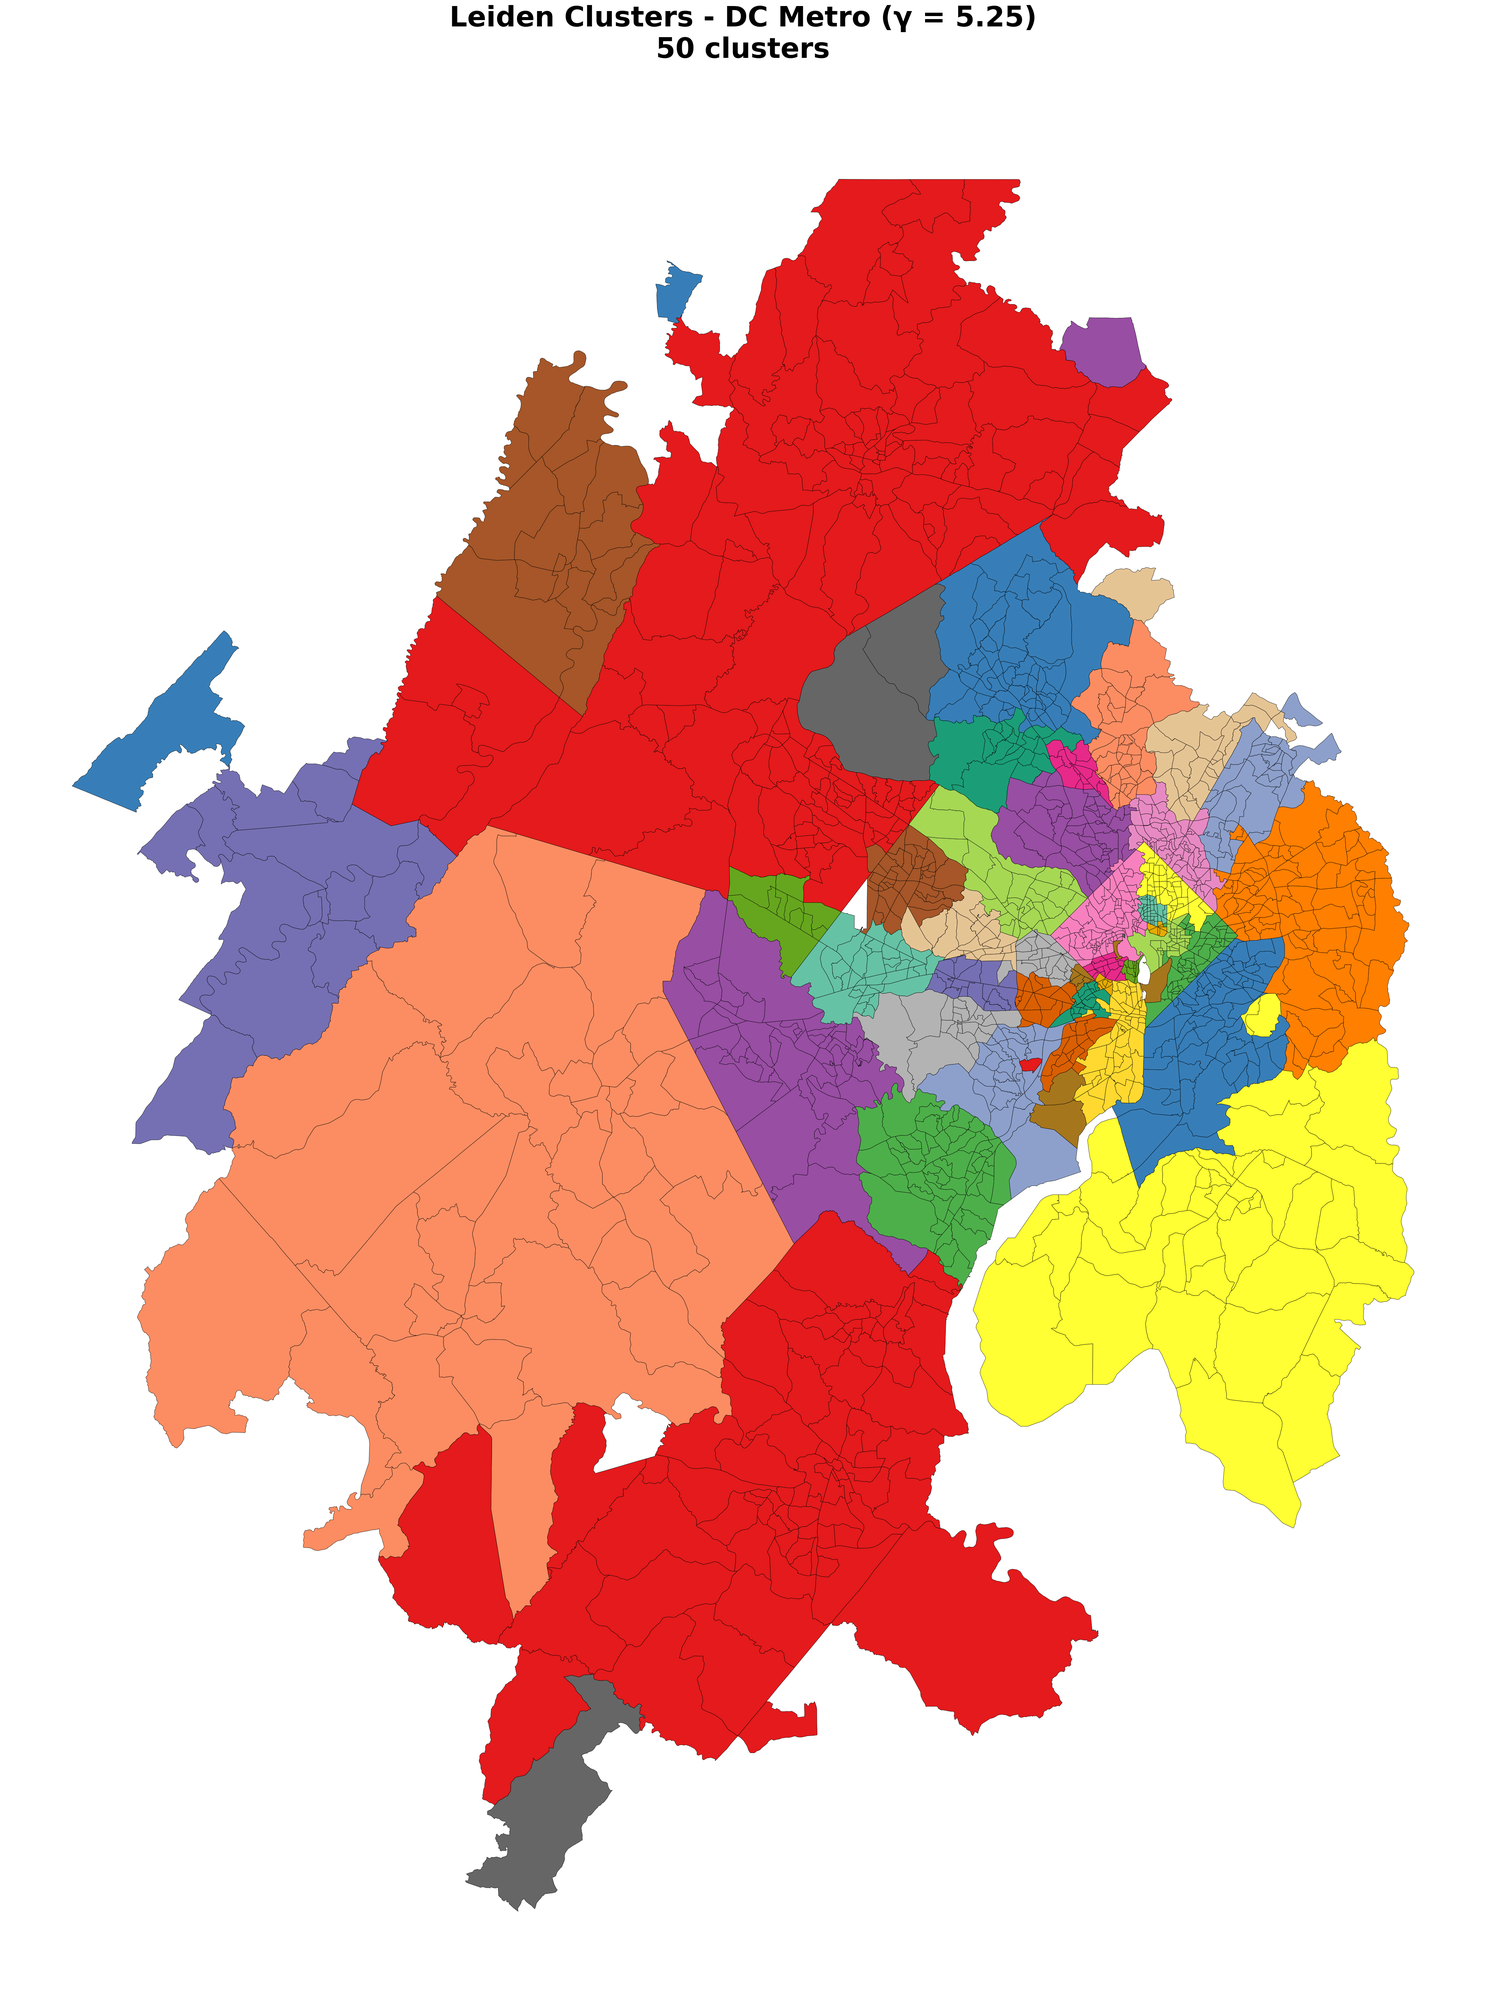
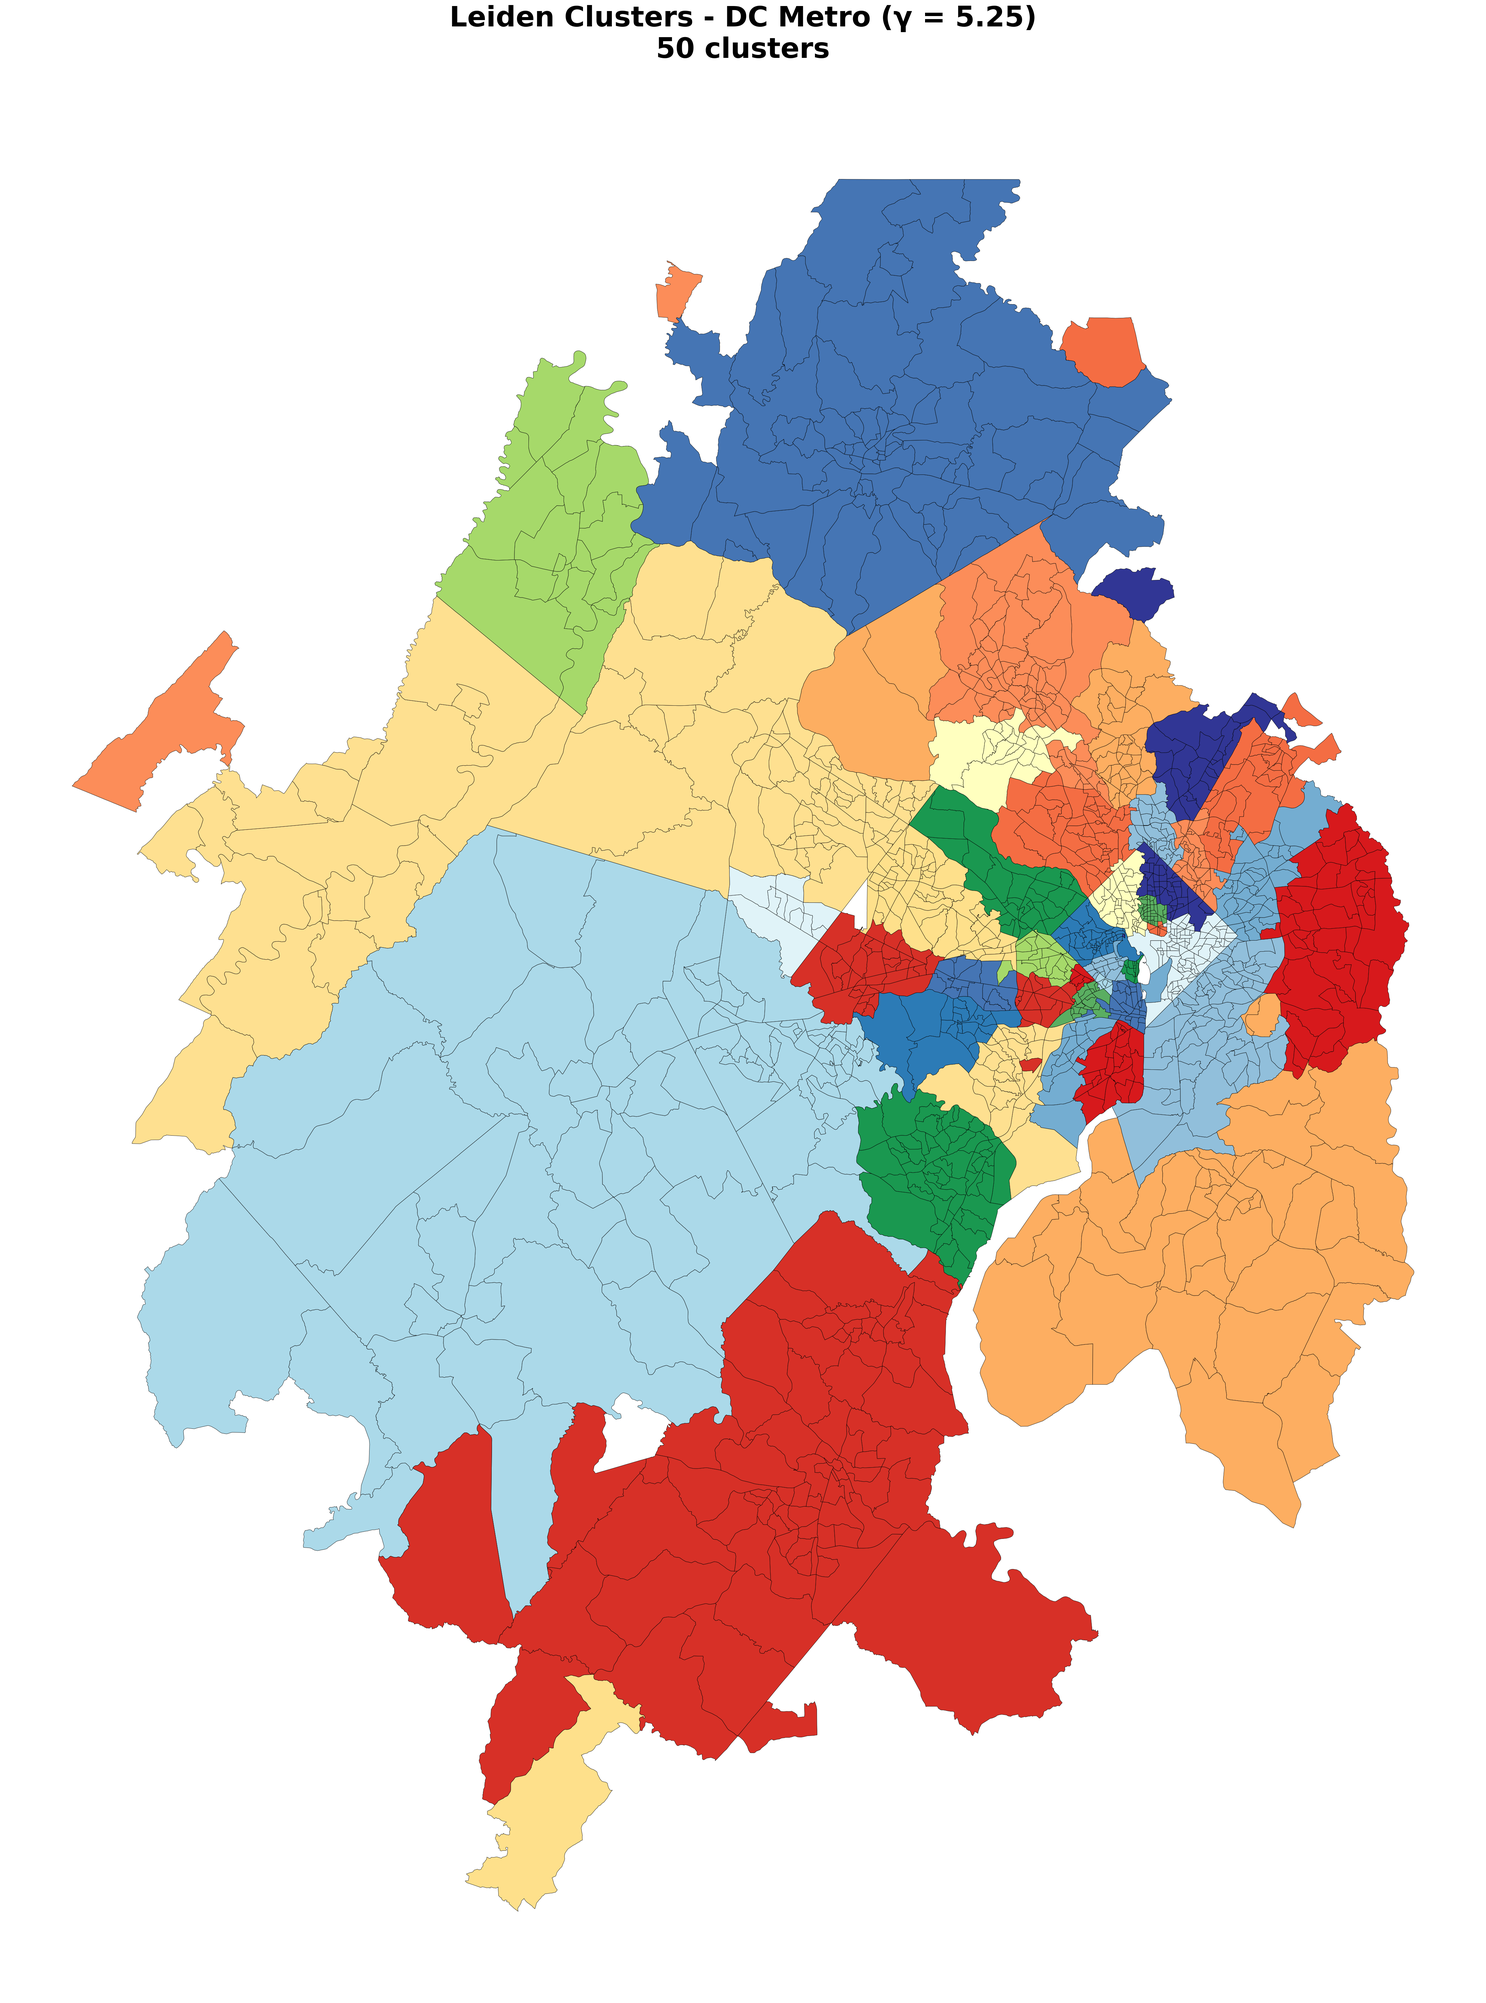
Use diverging color palette for better cluster differentiation
- Replaced sequential color palette with diverging colors
- Uses red-blue diverging scheme with better visual separation
- Colors alternate between warm (red/orange) and cool (blue/cyan) tones
- Updated both maps and legend to use new palette
- Clusters are now more visually distinct

🤖 Generated with [Claude Code](https://claude.com/claude-code)

diff --git a/index.html b/index.html
@@ -280,7 +280,7 @@
             display: none !important;
         }
     </style>
-    <marimo-code hidden="">import%20marimo%0A%0A__generated_with%20%3D%20%220.17.0%22%0Aapp%20%3D%20marimo.App()%0A%0A%0A%40app.cell%0Adef%20_()%3A%0A%20%20%20%20import%20marimo%20as%20mo%0A%20%20%20%20import%20pandas%20as%20pd%0A%20%20%20%20import%20plotly.express%20as%20px%0A%20%20%20%20return%20mo%2C%20pd%2C%20px%0A%0A%0A%40app.cell%0Adef%20_(mo)%3A%0A%20%20%20%20mo.md(%0A%20%20%20%20%20%20%20%20%22%22%22%0A%20%20%20%20%20%20%20%20%23%20Leiden%20Clustering%20-%20DC%20Metro%20Area%0A%20%20%20%20%20%20%20%20%22%22%22%0A%20%20%20%20)%0A%20%20%20%20return%0A%0A%0A%40app.cell%0Adef%20_(mo%2C%20pd)%3A%0A%20%20%20%20import%20json%0A%0A%20%20%20%20%23%20Load%20results%20from%20GitHub%0A%20%20%20%20results_url%20%3D%20'https%3A%2F%2Fraw.githubusercontent.com%2Fmassafn%2Fleiden-dc-interactive%2Fmain%2Fleiden_gamma_sweep_results.csv'%0A%20%20%20%20results_df%20%3D%20pd.read_csv(results_url)%0A%0A%20%20%20%20%23%20Load%20cluster%20legend%20info%20with%20actual%20cluster%20IDs%0A%20%20%20%20legend_url%20%3D%20'https%3A%2F%2Fraw.githubusercontent.com%2Fmassafn%2Fleiden-dc-interactive%2Fmain%2Fcluster_legend_info.json'%0A%20%20%20%20cluster_legend_df%20%3D%20pd.read_json(legend_url)%0A%0A%20%20%20%20%23%20Color%20palette%20(same%20as%20used%20in%20map%20generation)%0A%20%20%20%20color_palette%20%3D%20%5B'%23e41a1c'%2C%20'%23377eb8'%2C%20'%234daf4a'%2C%20'%23984ea3'%2C%20'%23ff7f00'%2C%0A%20%20%20%20%20%20%20%20%20%20%20%20%20%20'%23ffff33'%2C%20'%23a65628'%2C%20'%23f781bf'%2C%20'%2366c2a5'%2C%20'%23fc8d62'%2C%0A%20%20%20%20%20%20%20%20%20%20%20%20%20%20'%238da0cb'%2C%20'%23e78ac3'%2C%20'%23a6d854'%2C%20'%23ffd92f'%2C%20'%23e5c494'%2C%0A%20%20%20%20%20%20%20%20%20%20%20%20%20%20'%23b3b3b3'%2C%20'%231b9e77'%2C%20'%23d95f02'%2C%20'%237570b3'%2C%20'%23e7298a'%2C%0A%20%20%20%20%20%20%20%20%20%20%20%20%20%20'%2366a61e'%2C%20'%23e6ab02'%2C%20'%23a6761d'%2C%20'%23666666'%5D%0A%0A%20%20%20%20%23%20Create%20slider%20for%20gamma%0A%20%20%20%20gamma_slider%20%3D%20mo.ui.slider(%0A%20%20%20%20%20%20%20%20start%3D0.25%2C%0A%20%20%20%20%20%20%20%20stop%3D6.0%2C%0A%20%20%20%20%20%20%20%20step%3D0.25%2C%0A%20%20%20%20%20%20%20%20value%3D1.0%2C%0A%20%20%20%20%20%20%20%20label%3D%22%CE%B3%22%0A%20%20%20%20)%0A%0A%20%20%20%20gamma_slider%0A%20%20%20%20return%20cluster_legend_df%2C%20gamma_slider%2C%20results_df%0A%0A%0A%40app.cell%0Adef%20_(gamma_slider%2C%20mo)%3A%0A%20%20%20%20%23%20Display%20interactive%20map%20based%20on%20slider%20value%0A%20%20%20%20selected_gamma_map%20%3D%20gamma_slider.value%0A%0A%20%20%20%20%23%20Construct%20URL%20for%20the%20PNG%20map%20corresponding%20to%20selected%20gamma%0A%20%20%20%20map_url%20%3D%20f'https%3A%2F%2Fraw.githubusercontent.com%2Fmassafn%2Fleiden-dc-interactive%2Fmain%2Fleiden_map_gamma_%7Bselected_gamma_map%3A.2f%7D.png'%0A%0A%20%20%20%20mo.md(f%22%22%22%0A%20%20%20%20**Current%20selection%3A%20%CE%B3%20%3D%20%7Bselected_gamma_map%3A.2f%7D**%0A%20%20%20%20%22%22%22)%0A%20%20%20%20return%20map_url%2C%20selected_gamma_map%0A%0A%0A%40app.cell%0Adef%20_(map_url%2C%20mo)%3A%0A%20%20%20%20%23%20Display%20the%20map%20image%0A%20%20%20%20mo.md(f'%3Cimg%20src%3D%22%7Bmap_url%7D%22%20style%3D%22max-width%3A%20100%25%3B%20height%3A%20auto%3B%22%20%2F%3E')%0A%20%20%20%20return%0A%0A%0A%40app.cell%0Adef%20_(cluster_legend_df%2C%20mo%2C%20selected_gamma_map)%3A%0A%20%20%20%20%23%20Display%20legend%20with%20actual%20cluster%20IDs%20from%20the%20data%0A%20%20%20%20gamma_key%20%3D%20f'%7Bselected_gamma_map%3A.2f%7D'%0A%0A%20%20%20%20%23%20Get%20cluster%20info%20for%20this%20gamma%0A%20%20%20%20if%20gamma_key%20in%20cluster_legend_df.columns%3A%0A%20%20%20%20%20%20%20%20clusters%20%3D%20cluster_legend_df%5Bgamma_key%5D%0A%0A%20%20%20%20%20%20%20%20%23%20Build%20HTML%20legend%20with%20color%20swatches%0A%20%20%20%20%20%20%20%20legend_html%20%3D%20'%3Cdiv%20style%3D%22margin%3A%2020px%200%3B%22%3E%3Ch3%3ECluster%20Colors%3C%2Fh3%3E'%0A%20%20%20%20%20%20%20%20legend_html%20%2B%3D%20'%3Cdiv%20style%3D%22display%3A%20grid%3B%20grid-template-columns%3A%20repeat(auto-fill%2C%20minmax(100px%2C%201fr))%3B%20gap%3A%2010px%3B%22%3E'%0A%0A%20%20%20%20%20%20%20%20for%20cluster%20in%20clusters%3A%0A%20%20%20%20%20%20%20%20%20%20%20%20cluster_id%20%3D%20cluster%5B'cluster_id'%5D%0A%20%20%20%20%20%20%20%20%20%20%20%20color%20%3D%20cluster%5B'color'%5D%0A%20%20%20%20%20%20%20%20%20%20%20%20legend_html%20%2B%3D%20f'%3Cdiv%20style%3D%22display%3A%20flex%3B%20align-items%3A%20center%3B%20gap%3A%205px%3B%22%3E'%0A%20%20%20%20%20%20%20%20%20%20%20%20legend_html%20%2B%3D%20f'%3Cspan%20style%3D%22display%3A%20inline-block%3B%20width%3A%2030px%3B%20height%3A%2020px%3B%20background-color%3A%20%7Bcolor%7D%3B%20border%3A%201px%20solid%20black%3B%22%3E%3C%2Fspan%3E'%0A%20%20%20%20%20%20%20%20%20%20%20%20legend_html%20%2B%3D%20f'%3Cspan%20style%3D%22font-size%3A%2012px%3B%22%3EC%7Bcluster_id%7D%3C%2Fspan%3E'%0A%20%20%20%20%20%20%20%20%20%20%20%20legend_html%20%2B%3D%20'%3C%2Fdiv%3E'%0A%0A%20%20%20%20%20%20%20%20legend_html%20%2B%3D%20'%3C%2Fdiv%3E%3C%2Fdiv%3E'%0A%20%20%20%20else%3A%0A%20%20%20%20%20%20%20%20legend_html%20%3D%20'%3Cdiv%20style%3D%22margin%3A%2020px%200%3B%22%3E%3Cp%3E%3Cem%3ELoading%20legend...%3C%2Fem%3E%3C%2Fp%3E%3C%2Fdiv%3E'%0A%0A%20%20%20%20mo.md(legend_html)%0A%20%20%20%20return%0A%0A%0A%40app.cell%0Adef%20_(gamma_slider%2C%20results_df)%3A%0A%20%20%20%20%23%20Get%20selected%20gamma%20value%0A%20%20%20%20selected_gamma%20%3D%20gamma_slider.value%0A%0A%20%20%20%20%23%20Get%20results%20for%20selected%20gamma%0A%20%20%20%20result_row%20%3D%20results_df%5Bresults_df%5B'gamma'%5D%20%3D%3D%20selected_gamma%5D.iloc%5B0%5D%0A%20%20%20%20return%0A%0A%0A%40app.cell%0Adef%20_(mo%2C%20px%2C%20results_df)%3A%0A%20%20%20%20mo.md(%22%23%23%20Trends%20Across%20All%20Resolution%20Parameters%22)%0A%0A%20%20%20%20%23%20Create%20interactive%20plot%0A%20%20%20%20fig1%20%3D%20px.line(%0A%20%20%20%20%20%20%20%20results_df%2C%0A%20%20%20%20%20%20%20%20x%3D'gamma'%2C%0A%20%20%20%20%20%20%20%20y%3D'n_communities'%2C%0A%20%20%20%20%20%20%20%20markers%3DTrue%2C%0A%20%20%20%20%20%20%20%20title%3D'Number%20of%20Clusters%20vs%20Resolution%20Parameter'%2C%0A%20%20%20%20%20%20%20%20labels%3D%7B'gamma'%3A%20'Resolution%20Parameter%20(%CE%B3)'%2C%20'n_communities'%3A%20'Number%20of%20Clusters'%7D%0A%20%20%20%20)%0A%20%20%20%20fig1.update_traces(line_color%3D'%232166ac'%2C%20line_width%3D3%2C%20marker_size%3D10)%0A%0A%20%20%20%20fig2%20%3D%20px.line(%0A%20%20%20%20%20%20%20%20results_df%2C%0A%20%20%20%20%20%20%20%20x%3D'gamma'%2C%0A%20%20%20%20%20%20%20%20y%3D'modularity'%2C%0A%20%20%20%20%20%20%20%20markers%3DTrue%2C%0A%20%20%20%20%20%20%20%20title%3D'Modularity%20vs%20Resolution%20Parameter'%2C%0A%20%20%20%20%20%20%20%20labels%3D%7B'gamma'%3A%20'Resolution%20Parameter%20(%CE%B3)'%2C%20'modularity'%3A%20'Modularity%20(Weighted)'%7D%0A%20%20%20%20)%0A%20%20%20%20fig2.update_traces(line_color%3D'%23b2182b'%2C%20line_width%3D3%2C%20marker_size%3D10)%0A%0A%20%20%20%20mo.vstack(%5B%0A%20%20%20%20%20%20%20%20mo.ui.plotly(fig1)%2C%0A%20%20%20%20%20%20%20%20mo.ui.plotly(fig2)%0A%20%20%20%20%5D)%0A%20%20%20%20return%0A%0A%0A%40app.cell%0Adef%20_(mo%2C%20results_df)%3A%0A%20%20%20%20%23%20Summary%20statistics%20table%0A%20%20%20%20mo.md(%22%23%23%20Summary%20Statistics%22)%0A%0A%20%20%20%20summary%20%3D%20results_df%5B%5B'gamma'%2C%20'n_communities'%2C%20'modularity'%5D%5D.round(3)%0A%20%20%20%20mo.ui.table(summary%2C%20selection%3DNone)%0A%20%20%20%20return%0A%0A%0Aif%20__name__%20%3D%3D%20%22__main__%22%3A%0A%20%20%20%20app.run()%0A</marimo-code></head>
+    <marimo-code hidden="">import%20marimo%0A%0A__generated_with%20%3D%20%220.17.0%22%0Aapp%20%3D%20marimo.App()%0A%0A%0A%40app.cell%0Adef%20_()%3A%0A%20%20%20%20import%20marimo%20as%20mo%0A%20%20%20%20import%20pandas%20as%20pd%0A%20%20%20%20import%20plotly.express%20as%20px%0A%20%20%20%20return%20mo%2C%20pd%2C%20px%0A%0A%0A%40app.cell%0Adef%20_(mo)%3A%0A%20%20%20%20mo.md(%0A%20%20%20%20%20%20%20%20%22%22%22%0A%20%20%20%20%20%20%20%20%23%20Leiden%20Clustering%20-%20DC%20Metro%20Area%0A%20%20%20%20%20%20%20%20%22%22%22%0A%20%20%20%20)%0A%20%20%20%20return%0A%0A%0A%40app.cell%0Adef%20_(mo%2C%20pd)%3A%0A%20%20%20%20import%20json%0A%0A%20%20%20%20%23%20Load%20results%20from%20GitHub%0A%20%20%20%20results_url%20%3D%20'https%3A%2F%2Fraw.githubusercontent.com%2Fmassafn%2Fleiden-dc-interactive%2Fmain%2Fleiden_gamma_sweep_results.csv'%0A%20%20%20%20results_df%20%3D%20pd.read_csv(results_url)%0A%0A%20%20%20%20%23%20Load%20cluster%20legend%20info%20with%20actual%20cluster%20IDs%0A%20%20%20%20legend_url%20%3D%20'https%3A%2F%2Fraw.githubusercontent.com%2Fmassafn%2Fleiden-dc-interactive%2Fmain%2Fcluster_legend_info.json'%0A%20%20%20%20cluster_legend_df%20%3D%20pd.read_json(legend_url)%0A%0A%20%20%20%20%23%20Diverging%20color%20palette%20(same%20as%20used%20in%20map%20generation)%0A%20%20%20%20color_palette%20%3D%20%5B'%23d73027'%2C%20'%234575b4'%2C%20'%23fee090'%2C%20'%2391bfdb'%2C%20'%23fc8d59'%2C%0A%20%20%20%20%20%20%20%20%20%20%20%20%20%20'%231a9850'%2C%20'%23e0f3f8'%2C%20'%23f46d43'%2C%20'%23abd9e9'%2C%20'%23d7191c'%2C%0A%20%20%20%20%20%20%20%20%20%20%20%20%20%20'%2374add1'%2C%20'%23fdae61'%2C%20'%23313695'%2C%20'%23fee08b'%2C%20'%23a6d96a'%2C%0A%20%20%20%20%20%20%20%20%20%20%20%20%20%20'%232c7bb6'%2C%20'%23ffffbf'%2C%20'%23d73027'%2C%20'%235aae61'%2C%20'%23fdae61'%2C%0A%20%20%20%20%20%20%20%20%20%20%20%20%20%20'%23abd9e9'%2C%20'%23f46d43'%2C%20'%23fee090'%2C%20'%2391bfdb'%2C%20'%23fc8d59'%2C%0A%20%20%20%20%20%20%20%20%20%20%20%20%20%20'%231a9850'%2C%20'%23e0f3f8'%2C%20'%234575b4'%2C%20'%23d7191c'%2C%20'%23313695'%2C%0A%20%20%20%20%20%20%20%20%20%20%20%20%20%20'%23fee08b'%2C%20'%23a6d96a'%2C%20'%232c7bb6'%2C%20'%23ffffbf'%2C%20'%235aae61'%2C%0A%20%20%20%20%20%20%20%20%20%20%20%20%20%20'%2374add1'%2C%20'%23d73027'%2C%20'%234575b4'%2C%20'%23fee090'%2C%20'%2391bfdb'%2C%0A%20%20%20%20%20%20%20%20%20%20%20%20%20%20'%23fc8d59'%2C%20'%231a9850'%2C%20'%23e0f3f8'%2C%20'%23f46d43'%2C%20'%23abd9e9'%2C%0A%20%20%20%20%20%20%20%20%20%20%20%20%20%20'%23d7191c'%2C%20'%2374add1'%2C%20'%23fdae61'%2C%20'%23313695'%2C%20'%23fee08b'%2C%0A%20%20%20%20%20%20%20%20%20%20%20%20%20%20'%23a6d96a'%2C%20'%232c7bb6'%2C%20'%23ffffbf'%2C%20'%23d73027'%2C%20'%235aae61'%2C%0A%20%20%20%20%20%20%20%20%20%20%20%20%20%20'%23fdae61'%2C%20'%23abd9e9'%2C%20'%23f46d43'%2C%20'%23fee090'%2C%20'%2391bfdb'%5D%0A%0A%20%20%20%20%23%20Create%20slider%20for%20gamma%0A%20%20%20%20gamma_slider%20%3D%20mo.ui.slider(%0A%20%20%20%20%20%20%20%20start%3D0.25%2C%0A%20%20%20%20%20%20%20%20stop%3D6.0%2C%0A%20%20%20%20%20%20%20%20step%3D0.25%2C%0A%20%20%20%20%20%20%20%20value%3D1.0%2C%0A%20%20%20%20%20%20%20%20label%3D%22%CE%B3%22%0A%20%20%20%20)%0A%0A%20%20%20%20gamma_slider%0A%20%20%20%20return%20cluster_legend_df%2C%20gamma_slider%2C%20results_df%0A%0A%0A%40app.cell%0Adef%20_(gamma_slider%2C%20mo)%3A%0A%20%20%20%20%23%20Display%20interactive%20map%20based%20on%20slider%20value%0A%20%20%20%20selected_gamma_map%20%3D%20gamma_slider.value%0A%0A%20%20%20%20%23%20Construct%20URL%20for%20the%20PNG%20map%20corresponding%20to%20selected%20gamma%0A%20%20%20%20map_url%20%3D%20f'https%3A%2F%2Fraw.githubusercontent.com%2Fmassafn%2Fleiden-dc-interactive%2Fmain%2Fleiden_map_gamma_%7Bselected_gamma_map%3A.2f%7D.png'%0A%0A%20%20%20%20mo.md(f%22%22%22%0A%20%20%20%20**Current%20selection%3A%20%CE%B3%20%3D%20%7Bselected_gamma_map%3A.2f%7D**%0A%20%20%20%20%22%22%22)%0A%20%20%20%20return%20map_url%2C%20selected_gamma_map%0A%0A%0A%40app.cell%0Adef%20_(map_url%2C%20mo)%3A%0A%20%20%20%20%23%20Display%20the%20map%20image%0A%20%20%20%20mo.md(f'%3Cimg%20src%3D%22%7Bmap_url%7D%22%20style%3D%22max-width%3A%20100%25%3B%20height%3A%20auto%3B%22%20%2F%3E')%0A%20%20%20%20return%0A%0A%0A%40app.cell%0Adef%20_(cluster_legend_df%2C%20mo%2C%20selected_gamma_map)%3A%0A%20%20%20%20%23%20Display%20legend%20with%20actual%20cluster%20IDs%20from%20the%20data%0A%20%20%20%20gamma_key%20%3D%20f'%7Bselected_gamma_map%3A.2f%7D'%0A%0A%20%20%20%20%23%20Get%20cluster%20info%20for%20this%20gamma%0A%20%20%20%20if%20gamma_key%20in%20cluster_legend_df.columns%3A%0A%20%20%20%20%20%20%20%20clusters%20%3D%20cluster_legend_df%5Bgamma_key%5D%0A%0A%20%20%20%20%20%20%20%20%23%20Build%20HTML%20legend%20with%20color%20swatches%0A%20%20%20%20%20%20%20%20legend_html%20%3D%20'%3Cdiv%20style%3D%22margin%3A%2020px%200%3B%22%3E%3Ch3%3ECluster%20Colors%3C%2Fh3%3E'%0A%20%20%20%20%20%20%20%20legend_html%20%2B%3D%20'%3Cdiv%20style%3D%22display%3A%20grid%3B%20grid-template-columns%3A%20repeat(auto-fill%2C%20minmax(100px%2C%201fr))%3B%20gap%3A%2010px%3B%22%3E'%0A%0A%20%20%20%20%20%20%20%20for%20cluster%20in%20clusters%3A%0A%20%20%20%20%20%20%20%20%20%20%20%20cluster_id%20%3D%20cluster%5B'cluster_id'%5D%0A%20%20%20%20%20%20%20%20%20%20%20%20color%20%3D%20cluster%5B'color'%5D%0A%20%20%20%20%20%20%20%20%20%20%20%20legend_html%20%2B%3D%20f'%3Cdiv%20style%3D%22display%3A%20flex%3B%20align-items%3A%20center%3B%20gap%3A%205px%3B%22%3E'%0A%20%20%20%20%20%20%20%20%20%20%20%20legend_html%20%2B%3D%20f'%3Cspan%20style%3D%22display%3A%20inline-block%3B%20width%3A%2030px%3B%20height%3A%2020px%3B%20background-color%3A%20%7Bcolor%7D%3B%20border%3A%201px%20solid%20black%3B%22%3E%3C%2Fspan%3E'%0A%20%20%20%20%20%20%20%20%20%20%20%20legend_html%20%2B%3D%20f'%3Cspan%20style%3D%22font-size%3A%2012px%3B%22%3EC%7Bcluster_id%7D%3C%2Fspan%3E'%0A%20%20%20%20%20%20%20%20%20%20%20%20legend_html%20%2B%3D%20'%3C%2Fdiv%3E'%0A%0A%20%20%20%20%20%20%20%20legend_html%20%2B%3D%20'%3C%2Fdiv%3E%3C%2Fdiv%3E'%0A%20%20%20%20else%3A%0A%20%20%20%20%20%20%20%20legend_html%20%3D%20'%3Cdiv%20style%3D%22margin%3A%2020px%200%3B%22%3E%3Cp%3E%3Cem%3ELoading%20legend...%3C%2Fem%3E%3C%2Fp%3E%3C%2Fdiv%3E'%0A%0A%20%20%20%20mo.md(legend_html)%0A%20%20%20%20return%0A%0A%0A%40app.cell%0Adef%20_(gamma_slider%2C%20results_df)%3A%0A%20%20%20%20%23%20Get%20selected%20gamma%20value%0A%20%20%20%20selected_gamma%20%3D%20gamma_slider.value%0A%0A%20%20%20%20%23%20Get%20results%20for%20selected%20gamma%0A%20%20%20%20result_row%20%3D%20results_df%5Bresults_df%5B'gamma'%5D%20%3D%3D%20selected_gamma%5D.iloc%5B0%5D%0A%20%20%20%20return%0A%0A%0A%40app.cell%0Adef%20_(mo%2C%20px%2C%20results_df)%3A%0A%20%20%20%20mo.md(%22%23%23%20Trends%20Across%20All%20Resolution%20Parameters%22)%0A%0A%20%20%20%20%23%20Create%20interactive%20plot%0A%20%20%20%20fig1%20%3D%20px.line(%0A%20%20%20%20%20%20%20%20results_df%2C%0A%20%20%20%20%20%20%20%20x%3D'gamma'%2C%0A%20%20%20%20%20%20%20%20y%3D'n_communities'%2C%0A%20%20%20%20%20%20%20%20markers%3DTrue%2C%0A%20%20%20%20%20%20%20%20title%3D'Number%20of%20Clusters%20vs%20Resolution%20Parameter'%2C%0A%20%20%20%20%20%20%20%20labels%3D%7B'gamma'%3A%20'Resolution%20Parameter%20(%CE%B3)'%2C%20'n_communities'%3A%20'Number%20of%20Clusters'%7D%0A%20%20%20%20)%0A%20%20%20%20fig1.update_traces(line_color%3D'%232166ac'%2C%20line_width%3D3%2C%20marker_size%3D10)%0A%0A%20%20%20%20fig2%20%3D%20px.line(%0A%20%20%20%20%20%20%20%20results_df%2C%0A%20%20%20%20%20%20%20%20x%3D'gamma'%2C%0A%20%20%20%20%20%20%20%20y%3D'modularity'%2C%0A%20%20%20%20%20%20%20%20markers%3DTrue%2C%0A%20%20%20%20%20%20%20%20title%3D'Modularity%20vs%20Resolution%20Parameter'%2C%0A%20%20%20%20%20%20%20%20labels%3D%7B'gamma'%3A%20'Resolution%20Parameter%20(%CE%B3)'%2C%20'modularity'%3A%20'Modularity%20(Weighted)'%7D%0A%20%20%20%20)%0A%20%20%20%20fig2.update_traces(line_color%3D'%23b2182b'%2C%20line_width%3D3%2C%20marker_size%3D10)%0A%0A%20%20%20%20mo.vstack(%5B%0A%20%20%20%20%20%20%20%20mo.ui.plotly(fig1)%2C%0A%20%20%20%20%20%20%20%20mo.ui.plotly(fig2)%0A%20%20%20%20%5D)%0A%20%20%20%20return%0A%0A%0A%40app.cell%0Adef%20_(mo%2C%20results_df)%3A%0A%20%20%20%20%23%20Summary%20statistics%20table%0A%20%20%20%20mo.md(%22%23%23%20Summary%20Statistics%22)%0A%0A%20%20%20%20summary%20%3D%20results_df%5B%5B'gamma'%2C%20'n_communities'%2C%20'modularity'%5D%5D.round(3)%0A%20%20%20%20mo.ui.table(summary%2C%20selection%3DNone)%0A%20%20%20%20return%0A%0A%0Aif%20__name__%20%3D%3D%20%22__main__%22%3A%0A%20%20%20%20app.run()%0A</marimo-code></head>
   <body>
     <div id="root"></div>
     <!-- This is a portal for the data editor to render in -->
